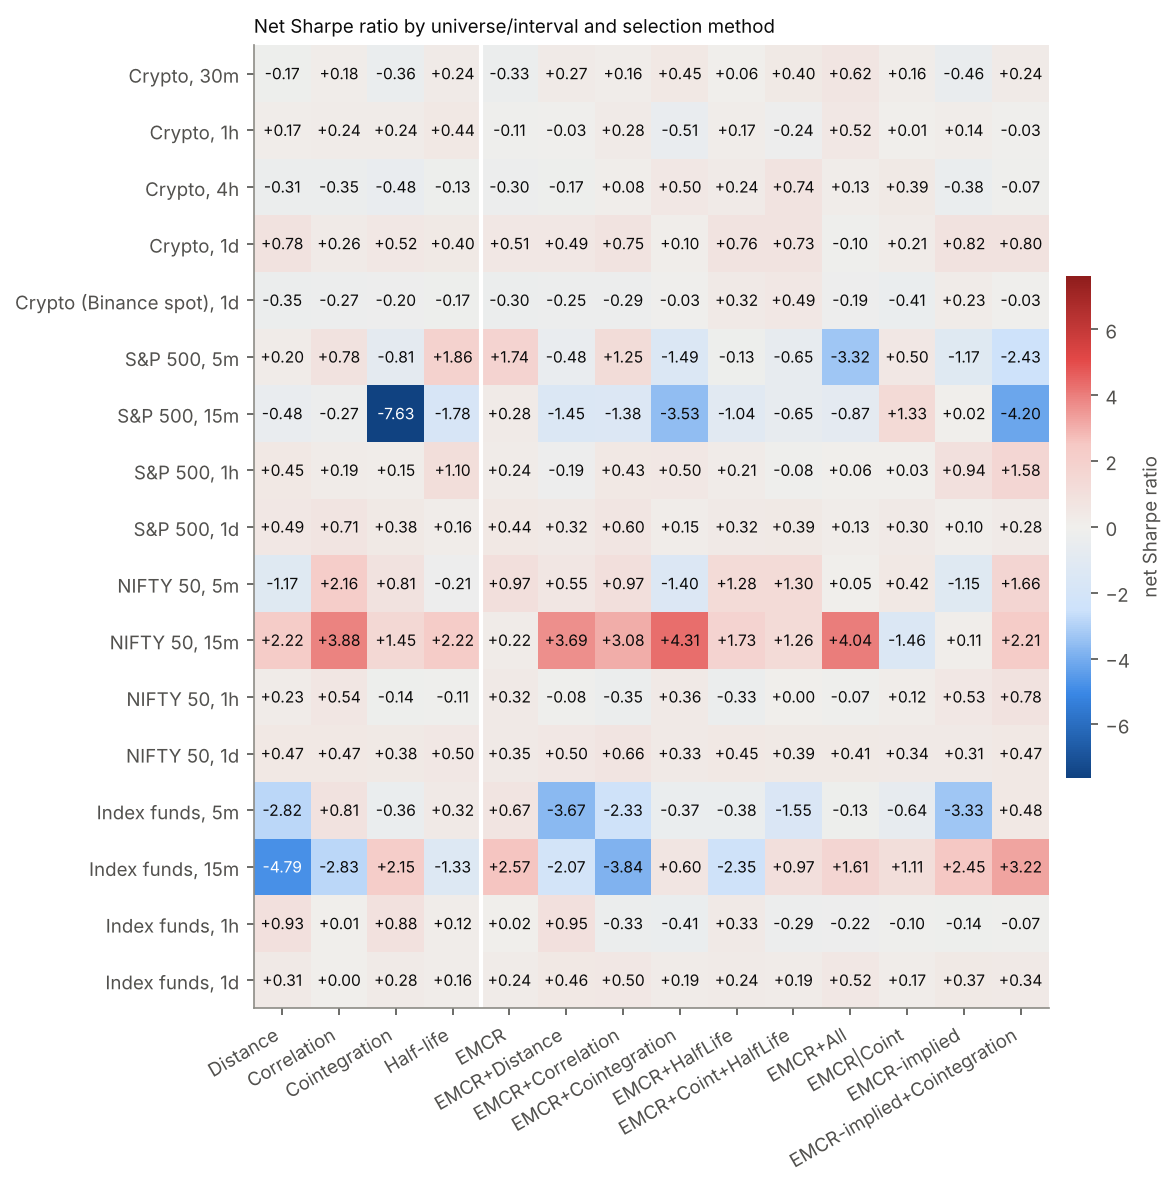
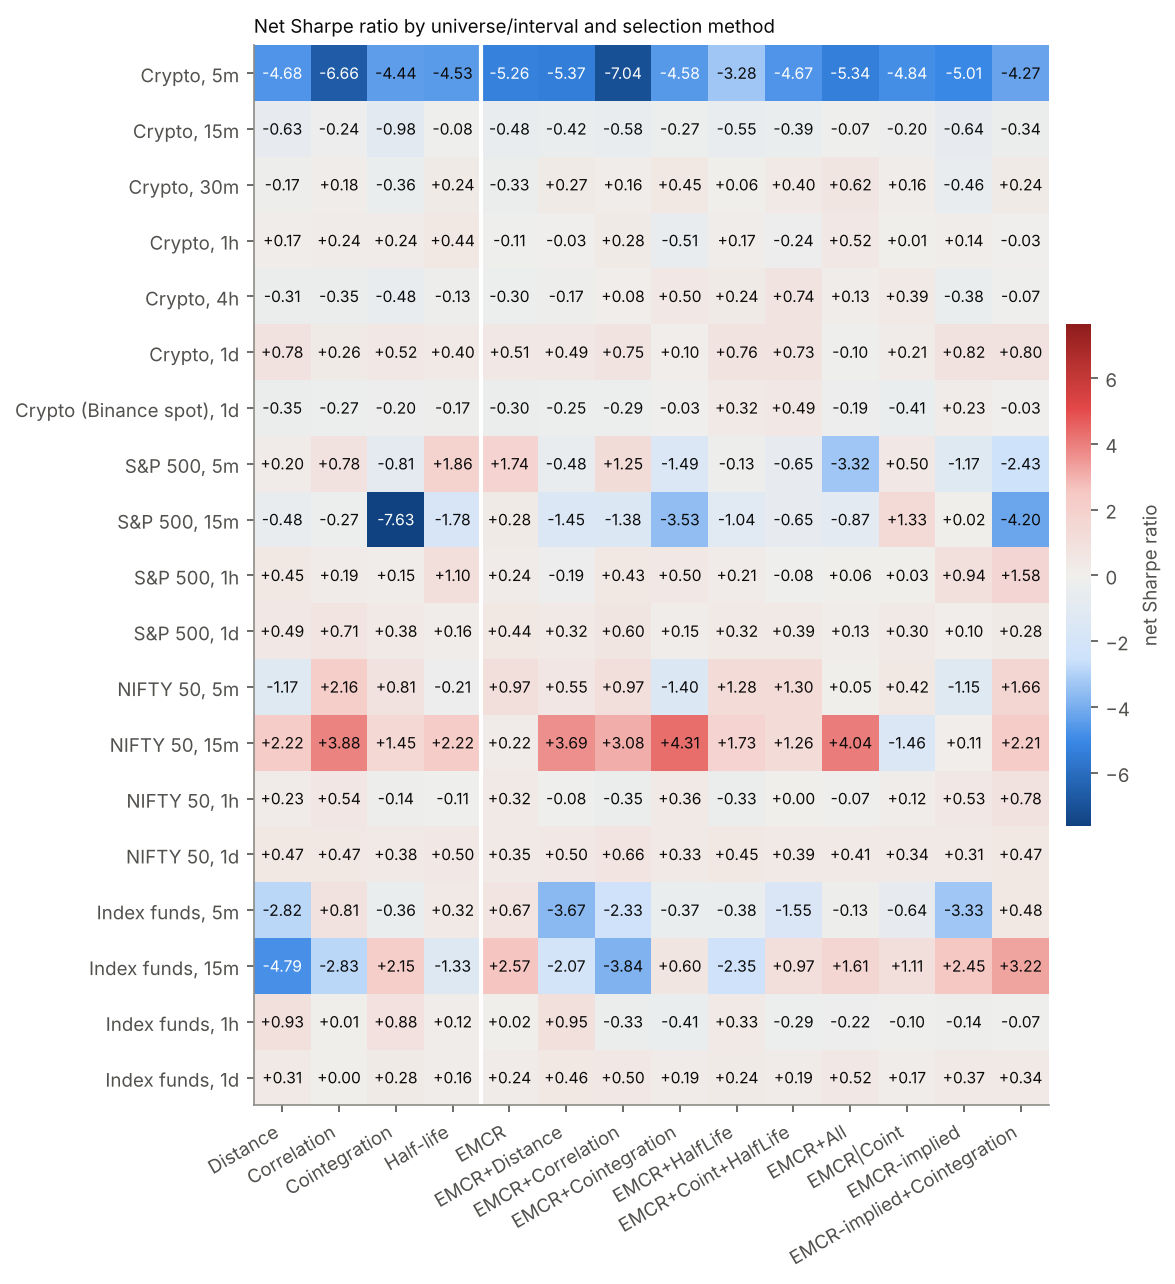
Final v4.2 summary, daily headline table and report (all universes and intervals)
Claude-Session: https://claude.ai/code/session_01XFbDS8bE4KtWL2MNWHWTV4

diff --git a/results/summary_v4/REPORT.md b/results/summary_v4/REPORT.md
@@ -8,6 +8,8 @@ All numbers are out of sample (non-overlapping walk-forward windows of 630 forma
 
 | dataset | folds | first | last | names | pairs | ranked |
 |---|---|---|---|---|---|---|
+| crypto_5m | 581 | 2025-01-03 | 2026-09-30 | 94 | 4443 | True |
+| crypto_15m | 747 | 2020-01-14 | 2026-09-30 | 90 | 4245 | True |
 | crypto_30m | 372 | 2020-01-20 | 2026-09-26 | 89 | 4219 | True |
 | crypto_1h | 184 | 2020-02-09 | 2026-09-20 | 90 | 4256 | True |
 | crypto_4h | 43 | 2020-06-06 | 2026-08-11 | 89 | 4205 | True |
@@ -32,6 +34,8 @@ Datasets with fewer than 5 windows are shown but excluded from rankings and test
 
 | dataset | Distance | Correlation | Cointegration | HalfLife | EMCR | EMCR+Distance | EMCR+Correlation | EMCR+Cointegration | EMCR+HalfLife | EMCR+Coint+HalfLife | EMCR+All | EMCR|Coint | EMCR-implied | EMCR-implied+Cointegration |
 |---|---|---|---|---|---|---|---|---|---|---|---|---|---|---|
+| crypto_5m | -4.68 | -6.66 | -4.44 | -4.53 | -5.26 | -5.37 | -7.04 | -4.58 | -3.28 | -4.67 | -5.34 | -4.84 | -5.01 | -4.27 |
+| crypto_15m | -0.63 | -0.24 | -0.98 | -0.08 | -0.48 | -0.42 | -0.58 | -0.27 | -0.55 | -0.39 | -0.07 | -0.20 | -0.64 | -0.34 |
 | crypto_30m | -0.17 | 0.18 | -0.36 | 0.24 | -0.33 | 0.27 | 0.16 | 0.45 | 0.06 | 0.40 | 0.62 | 0.16 | -0.46 | 0.24 |
 | crypto_1h | 0.17 | 0.24 | 0.24 | 0.44 | -0.11 | -0.03 | 0.28 | -0.51 | 0.17 | -0.24 | 0.52 | 0.01 | 0.14 | -0.03 |
 | crypto_4h | -0.31 | -0.35 | -0.48 | -0.13 | -0.30 | -0.17 | 0.08 | 0.50 | 0.24 | 0.74 | 0.13 | 0.39 | -0.38 | -0.07 |
@@ -56,45 +60,46 @@ Datasets with fewer than 5 windows are shown but excluded from rankings and test
 
 | criterion | mean_sharpe | median_sharpe | share_positive | mean_rank | times_best |
 |---|---|---|---|---|---|
-| EMCR-implied+Cointegration | 0.25 | 0.28 | 0.62 | 5.77 | 2 |
-| Correlation | 0.42 | 0.24 | 0.85 | 5.92 | 3 |
-| HalfLife | 0.33 | 0.16 | 0.69 | 6.31 | 1 |
-| EMCR+Correlation | 0.12 | 0.28 | 0.69 | 6.69 | 1 |
-| EMCR+HalfLife | 0.21 | 0.24 | 0.77 | 6.85 | 0 |
-| EMCR+All | -0.11 | 0.06 | 0.62 | 7.38 | 3 |
-| EMCR | 0.30 | 0.24 | 0.69 | 7.46 | 0 |
-| EMCR+Coint+HalfLife | 0.08 | 0.19 | 0.62 | 7.54 | 2 |
-| Distance | -0.12 | 0.20 | 0.62 | 7.69 | 0 |
-| EMCR+Distance | -0.14 | -0.03 | 0.46 | 7.85 | 1 |
-| Cointegration | 0.06 | 0.15 | 0.54 | 8.46 | 0 |
-| EMCR+Cointegration | -0.13 | 0.15 | 0.54 | 8.62 | 0 |
-| EMCR|Coint | 0.10 | 0.16 | 0.77 | 9.08 | 0 |
-| EMCR-implied | -0.31 | 0.10 | 0.54 | 9.38 | 0 |
+| EMCR-implied+Cointegration | -0.09 | 0.24 | 0.53 | 5.53 | 2 |
+| HalfLife | -0.02 | 0.16 | 0.60 | 5.87 | 1 |
+| Correlation | -0.09 | 0.19 | 0.73 | 6.27 | 3 |
+| EMCR+HalfLife | -0.07 | 0.21 | 0.67 | 6.67 | 1 |
+| EMCR+All | -0.46 | 0.05 | 0.53 | 7.20 | 4 |
+| EMCR+Coint+HalfLife | -0.27 | 0.00 | 0.53 | 7.40 | 2 |
+| EMCR+Correlation | -0.40 | 0.16 | 0.60 | 7.47 | 1 |
+| EMCR | -0.12 | 0.24 | 0.60 | 7.73 | 0 |
+| Distance | -0.46 | 0.17 | 0.53 | 7.93 | 0 |
+| EMCR+Distance | -0.51 | -0.08 | 0.40 | 8.13 | 1 |
+| EMCR+Cointegration | -0.44 | -0.03 | 0.47 | 8.13 | 0 |
+| Cointegration | -0.31 | -0.14 | 0.47 | 8.47 | 0 |
+| EMCR|Coint | -0.25 | 0.12 | 0.67 | 8.60 | 0 |
+| EMCR-implied | -0.64 | -0.14 | 0.47 | 9.60 | 0 |
 
 ## 4. Does adding EMCR improve each classical method?
 
 | hybrid | component | datasets | hybrid_better | median_sharpe_gain | mean_sharpe_gain |
 |---|---|---|---|---|---|
-| EMCR+Distance | Distance | 13 | 7 | 0.02 | -0.02 |
-| EMCR+Correlation | Correlation | 13 | 6 | -0.02 | -0.30 |
-| EMCR+Cointegration | Cointegration | 13 | 5 | -0.04 | -0.19 |
-| EMCR+HalfLife | HalfLife | 13 | 6 | -0.05 | -0.12 |
-| EMCR+Coint+HalfLife | Cointegration | 13 | 8 | 0.01 | 0.02 |
-| EMCR+All | Cointegration | 13 | 8 | 0.03 | -0.17 |
-| EMCR|Coint | Cointegration | 13 | 4 | -0.10 | 0.04 |
-| EMCR-implied | Cointegration | 13 | 5 | -0.09 | -0.37 |
-| EMCR-implied+Cointegration | Cointegration | 13 | 9 | 0.16 | 0.19 |
+| EMCR+Distance | Distance | 15 | 8 | 0.02 | -0.05 |
+| EMCR+Correlation | Correlation | 15 | 6 | -0.03 | -0.31 |
+| EMCR+Cointegration | Cointegration | 15 | 6 | -0.04 | -0.13 |
+| EMCR+HalfLife | HalfLife | 15 | 7 | -0.05 | -0.05 |
+| EMCR+Coint+HalfLife | Cointegration | 15 | 9 | 0.01 | 0.04 |
+| EMCR+All | Cointegration | 15 | 9 | 0.03 | -0.15 |
+| EMCR|Coint | Cointegration | 15 | 5 | -0.10 | 0.06 |
+| EMCR-implied | Cointegration | 15 | 6 | -0.09 | -0.33 |
+| EMCR-implied+Cointegration | Cointegration | 15 | 11 | 0.17 | 0.22 |
 
 ## 5. Pre-registered Diebold-Mariano tests (primary configuration)
 
 d_t = n^A_t - n^B_t (net return of A minus B per bar); H0: E[d] = 0, two-sided; Newey-West HAC with Bartlett kernel, bandwidth floor(4(T/100)^(2/9)) (also 2x and Andrews 1991 shown), Harvey-Leybourne-Newbold correction, t(T-1) reference; stationary-bootstrap p-value with Politis-White block length; Holm within dataset and across all datasets.
 
-Tests: 169; significant at 5% after Holm across all: 0.
+Tests: 195; significant at 5% after Holm across all: 0.
 
 | dataset | A | B | dm_nw | p_nw | p_nw2 | p_andrews | p_boot | lag_nw | mean_diff_pa | holm_within | holm_all |
 |---|---|---|---|---|---|---|---|---|---|---|---|
-| etf_1h | EMCR+Cointegration | Cointegration | -3.2471 | 0.0012 | 0.0016 | 0.0012 | 0.0020 | 9 | -0.0321 | 0.0153 | 0.1985 |
-| crypto_4h | EMCR+Coint+HalfLife | Cointegration | 3.1926 | 0.0014 | 0.0015 | 0.0010 | 0.0015 | 11 | 0.1269 | 0.0184 | 0.2374 |
+| etf_1h | EMCR+Cointegration | Cointegration | -3.2471 | 0.0012 | 0.0016 | 0.0012 | 0.0020 | 9 | -0.0321 | 0.0153 | 0.2290 |
+| crypto_4h | EMCR+Coint+HalfLife | Cointegration | 3.1926 | 0.0014 | 0.0015 | 0.0010 | 0.0015 | 11 | 0.1269 | 0.0184 | 0.2742 |
+| crypto_15m | EMCR+All | Cointegration | 2.8228 | 0.0048 | 0.0046 | 0.0054 | 0.0050 | 22 | 0.1229 | 0.0619 | 0.9188 |
 | etf_1d | EMCR+Correlation | Correlation | 2.6754 | 0.0075 | 0.0058 | 0.0123 | 0.0160 | 9 | 0.0072 | 0.0974 | 1.0000 |
 | crypto_30m | EMCR+All | Cointegration | 2.6390 | 0.0083 | 0.0080 | 0.0085 | 0.0065 | 19 | 0.1108 | 0.1081 | 1.0000 |
 | crypto_4h | EMCR+Cointegration | Cointegration | 2.6327 | 0.0085 | 0.0092 | 0.0077 | 0.0095 | 11 | 0.1061 | 0.1018 | 1.0000 |
@@ -103,26 +108,27 @@ Tests: 169; significant at 5% after Holm across all: 0.
 | etf_1h | EMCR|Coint | Cointegration | -2.5481 | 0.0109 | 0.0133 | 0.0109 | 0.0135 | 9 | -0.0247 | 0.1195 | 1.0000 |
 | etf_1h | EMCR-implied+Cointegration | Cointegration | -2.4000 | 0.0164 | 0.0156 | 0.0240 | 0.0235 | 9 | -0.0240 | 0.1643 | 1.0000 |
 | crypto_30m | EMCR+Coint+HalfLife | Cointegration | 2.3975 | 0.0165 | 0.0164 | 0.0168 | 0.0150 | 19 | 0.0946 | 0.1816 | 1.0000 |
+| crypto_15m | EMCR+Cointegration | Cointegration | 2.3305 | 0.0198 | 0.0186 | 0.0211 | 0.0210 | 22 | 0.0966 | 0.2374 | 1.0000 |
 | crypto_spot_1d | EMCR+Coint+HalfLife | Cointegration | 2.3112 | 0.0209 | 0.0194 | 0.0215 | 0.0215 | 7 | 0.0727 | 0.2719 | 1.0000 |
+| crypto_15m | EMCR|Coint | Cointegration | 2.2993 | 0.0215 | 0.0210 | 0.0222 | 0.0195 | 22 | 0.1038 | 0.2374 | 1.0000 |
 | etf_1h | EMCR+All | Cointegration | -2.2537 | 0.0243 | 0.0223 | 0.0311 | 0.0305 | 9 | -0.0259 | 0.2184 | 1.0000 |
 | crypto_1h | EMCR+Cointegration | Cointegration | -2.2279 | 0.0259 | 0.0231 | 0.0324 | 0.0260 | 16 | -0.0863 | 0.3366 | 1.0000 |
 | crypto_4h | EMCR|Coint | Cointegration | 2.2133 | 0.0269 | 0.0276 | 0.0249 | 0.0260 | 11 | 0.0953 | 0.2958 | 1.0000 |
 | etf_1h | EMCR-implied | Cointegration | -2.1821 | 0.0292 | 0.0246 | 0.0351 | 0.0295 | 9 | -0.0259 | 0.2333 | 1.0000 |
+| crypto_15m | EMCR-implied+Cointegration | Cointegration | 2.1758 | 0.0296 | 0.0286 | 0.0319 | 0.0315 | 22 | 0.0865 | 0.2957 | 1.0000 |
+| crypto_15m | EMCR+Coint+HalfLife | Cointegration | 2.0121 | 0.0442 | 0.0416 | 0.0484 | 0.0485 | 22 | 0.0828 | 0.3979 | 1.0000 |
+| crypto_5m | EMCR | Correlation | -1.9539 | 0.0507 | 0.0514 | 0.0512 | 0.0530 | 21 | -0.1906 | 0.6593 | 1.0000 |
 | crypto_30m | EMCR-implied+Cointegration | Cointegration | 1.8658 | 0.0621 | 0.0638 | 0.0607 | 0.0600 | 19 | 0.0752 | 0.6207 | 1.0000 |
 | nifty50_1h | EMCR-implied+Cointegration | Cointegration | 1.8030 | 0.0715 | 0.0624 | 0.0803 | 0.0780 | 9 | 0.0264 | 0.9290 | 1.0000 |
+| crypto_15m | EMCR+HalfLife | HalfLife | -1.7517 | 0.0798 | 0.0805 | 0.0807 | 0.0870 | 22 | -0.0577 | 0.6387 | 1.0000 |
 | sp500_1h | EMCR-implied+Cointegration | Cointegration | 1.7318 | 0.0834 | 0.0816 | 0.0895 | 0.0930 | 9 | 0.0396 | 1.0000 | 1.0000 |
-| etf_1h | EMCR | Cointegration | -1.7184 | 0.0858 | 0.0942 | 0.0841 | 0.0840 | 9 | -0.0218 | 0.6006 | 1.0000 |
-| etf_5m | EMCR+Correlation | Correlation | -1.6428 | 0.1005 | 0.0868 | 0.1120 | 0.1095 | 8 | -0.0412 | 1.0000 | 1.0000 |
-| nifty50_5m | EMCR+Cointegration | Cointegration | -1.6423 | 0.1006 | 0.1028 | 0.1036 | 0.0870 | 8 | -0.0778 | 1.0000 | 1.0000 |
-| crypto_30m | EMCR | HalfLife | -1.6076 | 0.1079 | 0.1058 | 0.1117 | 0.1055 | 19 | -0.0682 | 0.9714 | 1.0000 |
-| crypto_1h | EMCR | HalfLife | -1.5685 | 0.1168 | 0.1131 | 0.1241 | 0.1115 | 16 | -0.0638 | 1.0000 | 1.0000 |
-| etf_1d | EMCR+Distance | Distance | 1.5405 | 0.1235 | 0.1227 | 0.1531 | 0.1150 | 9 | 0.0045 | 1.0000 | 1.0000 |
-| crypto_30m | EMCR+Distance | Distance | 1.5039 | 0.1326 | 0.1332 | 0.1361 | 0.1385 | 19 | 0.0450 | 1.0000 | 1.0000 |
 
 ## 6. Pair-level evidence: does the formation statistic predict a pair's out-of-sample net return? (t-statistic of the fold-average rank IC)
 
 | dataset | ar1 | ccr | coint_p | corr | distance | halflife | mcr |
 |---|---|---|---|---|---|---|---|
+| crypto_5m | -3.3 | -2.9 | -5.0 | -15.0 | -14.5 | -3.1 | -5.1 |
+| crypto_15m | 5.8 | 3.4 | 4.6 | -7.3 | -2.8 | 4.8 | 3.8 |
 | crypto_30m | 4.1 | 1.7 | 2.9 | -6.1 | -2.2 | 3.4 | 2.6 |
 | crypto_1h | 3.9 | 0.9 | 4.1 | -2.6 | -1.2 | 3.0 | 1.6 |
 | crypto_4h | 4.2 | 3.0 | 2.1 | -1.0 | 0.1 | 2.4 | 2.2 |
@@ -148,6 +154,8 @@ Tests: 169; significant at 5% after Holm across all: 0.
 
 | dataset | K | T | spa_p | rc_p |
 |---|---|---|---|---|
+| crypto_5m | 50 | 636 | 0.565 | 0.565 |
+| crypto_15m | 50 | 2452 | 0.434 | 0.434 |
 | crypto_30m | 50 | 2442 | 0.392 | 0.392 |
 | crypto_1h | 140 | 2416 | 0.900 | 0.908 |
 | crypto_4h | 140 | 2258 | 0.281 | 0.281 |
@@ -170,6 +178,8 @@ Deflated Sharpe ratio (Bailey and Lopez de Prado 2014) of the best proposed conf
 
 | dataset | config | criterion | sr | sr0 | dsr | psr | N |
 |---|---|---|---|---|---|---|---|
+| crypto_5m | LEVEL|w140|e2|x0.5|n20|rank | EMCR+HalfLife | -0.117 | 0.553 | 0.000 | 0.090 | 70 |
+| crypto_15m | LEVEL|w140|e2|x0.5|n20|rank | EMCR+All | -0.003 | 0.183 | 0.000 | 0.436 | 70 |
 | crypto_30m | LEVEL|w140|e2|x0.5|n20|rank | EMCR+All | 0.031 | 0.109 | 0.000 | 0.948 | 70 |
 | crypto_1h | LEVEL|w140|e2|x0.5|n5|rank | EMCR+All | 0.058 | 0.085 | 0.089 | 0.998 | 196 |
 | crypto_4h | LEVEL|w140|e2|x1|n20|rank | EMCR+Coint+HalfLife | 0.057 | 0.058 | 0.473 | 0.997 | 196 |
@@ -228,6 +238,8 @@ Sharpe by method with a one-bar delay:
 
 | dataset | Distance | Correlation | Cointegration | HalfLife | EMCR | EMCR+Distance | EMCR+Correlation | EMCR+Cointegration | EMCR+HalfLife | EMCR+Coint+HalfLife | EMCR+All | EMCR|Coint | EMCR-implied | EMCR-implied+Cointegration |
 |---|---|---|---|---|---|---|---|---|---|---|---|---|---|---|
+| crypto_5m | 2.3 | 2.4 | 1.7 | 2.2 | 1.6 | 2.2 | 2.3 | 1.8 | 2.8 | 2.1 | 2.5 | 1.7 | 1.6 | 2.0 |
+| crypto_15m | 5.2 | 5.7 | 4.4 | 5.9 | 5.3 | 5.5 | 5.3 | 5.6 | 5.2 | 5.4 | 5.9 | 5.7 | 5.0 | 5.5 |
 | crypto_30m | 5.6 | 6.4 | 4.9 | 6.7 | 5.0 | 6.7 | 6.4 | 7.3 | 6.2 | 7.1 | 7.5 | 6.4 | 4.7 | 6.7 |
 | crypto_1h | 6.8 | 7.0 | 7.3 | 8.3 | 5.4 | 5.9 | 7.2 | 3.3 | 6.9 | 4.8 | 8.4 | 6.1 | 6.8 | 5.9 |
 | crypto_4h | 1.2 | 1.3 |  | 3.8 | 1.0 | 3.2 | 7.1 | 14.5 | 10.0 | 17.7 | 8.0 | 12.8 |  | 4.9 |
@@ -249,6 +261,8 @@ Sharpe by method with a one-bar delay:
 
 | dataset | Distance | Correlation | Cointegration | HalfLife | EMCR | EMCR+Distance | EMCR+Correlation | EMCR+Cointegration | EMCR+HalfLife | EMCR+Coint+HalfLife | EMCR+All | EMCR|Coint | EMCR-implied | EMCR-implied+Cointegration |
 |---|---|---|---|---|---|---|---|---|---|---|---|---|---|---|
+| crypto_5m | 2280 | 2257 | 2276 | 2337 | 2310 | 2307 | 2317 | 2323 | 2346 | 2340 | 2340 | 2331 | 2315 | 2346 |
+| crypto_15m | 811 | 799 | 810 | 826 | 819 | 818 | 817 | 825 | 824 | 826 | 832 | 827 | 822 | 832 |
 | crypto_30m | 412 | 410 | 413 | 420 | 416 | 417 | 420 | 425 | 420 | 424 | 425 | 422 | 421 | 427 |
 | crypto_1h | 214 | 212 | 215 | 218 | 219 | 213 | 218 | 220 | 221 | 220 | 220 | 220 | 219 | 220 |
 | crypto_4h | 61 | 60 | 61 | 63 | 62 | 63 | 62 | 63 | 63 | 63 | 63 | 63 | 64 | 64 |
@@ -271,6 +285,8 @@ Sharpe by method with a one-bar delay:
 
 | dataset | HEDGED|w140|e2|x0.5|n20|rank | LEVEL|w140|e2|x0.5|n20|active | LEVEL|w140|e2|x0.5|n20|rank | MAD|f35w140|e1|x0.25|n20|rank | MAD|f35w140|e1|x0.25|n5|active |
 |---|---|---|---|---|---|
+| crypto_5m | -4.38 | -15.25 | -5.00 | -7.03 | -6.89 |
+| crypto_15m | -0.80 | -3.99 | -0.42 | -2.99 | -2.65 |
 | crypto_30m | -0.19 | -1.77 | 0.10 | -1.71 | -1.43 |
 | crypto_1h | -0.11 | -0.88 | 0.09 | -1.24 | -0.83 |
 | crypto_4h | -0.40 | -0.35 | -0.01 | -0.62 | -0.19 |
